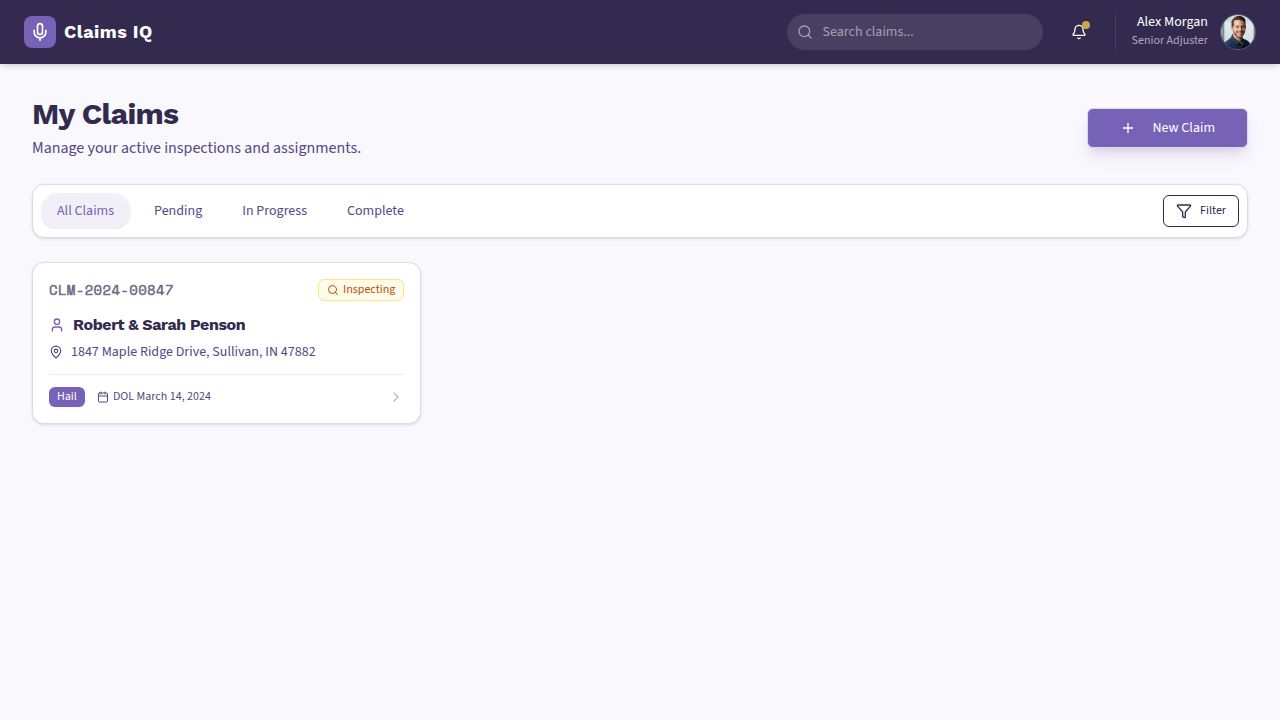
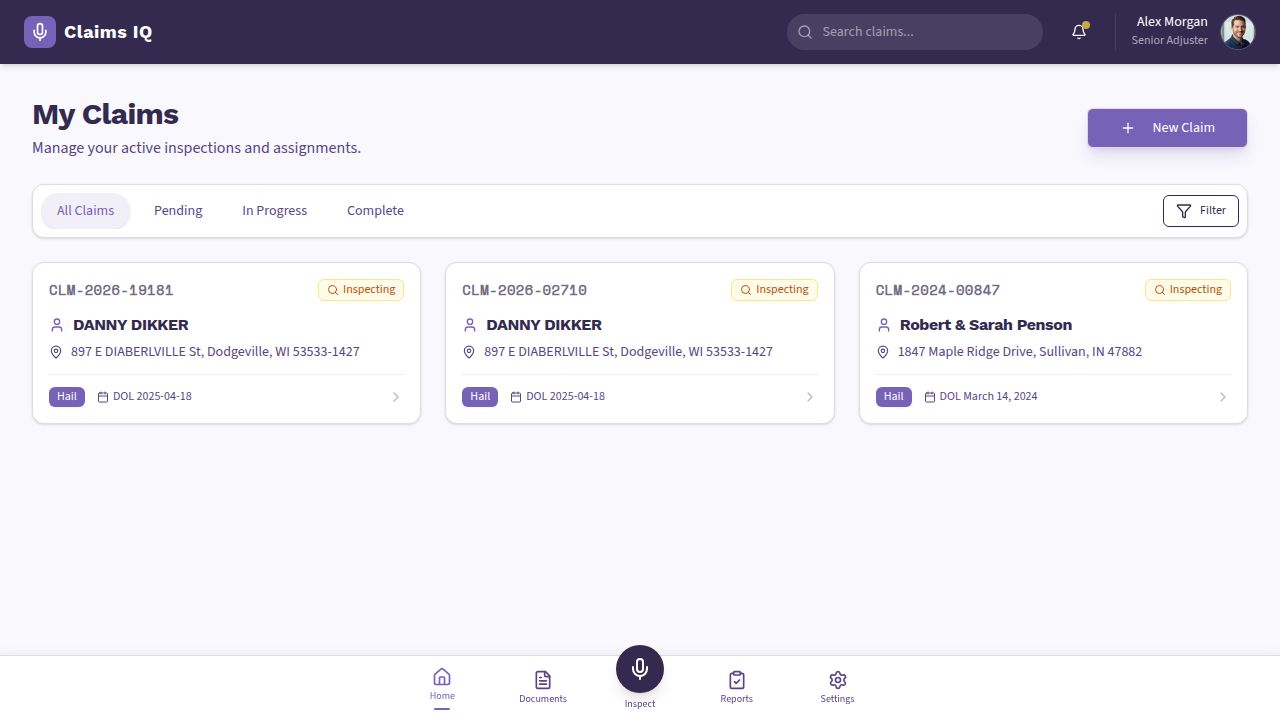
Make navigation buttons context-aware and functional across the application
Update `BottomNav.tsx` to dynamically generate navigation paths based on the active claim ID and status. Implement wildcard matching for route activation and add logic to hide the navigation during specific inspection phases. Also includes backend data fixes for claim details.

Replit-Commit-Author: Agent
Replit-Commit-Session-Id: 6dd01968-cad3-4640-b0b7-89ff9c62550d
Replit-Commit-Checkpoint-Type: full_checkpoint
Replit-Commit-Event-Id: fc676076-7662-4267-93ed-61b7ecebb32d
Replit-Commit-Screenshot-Url: https://storage.googleapis.com/screenshot-production-us-central1/700e6c2a-3d19-4718-8346-2da0e6e5ac25/6dd01968-cad3-4640-b0b7-89ff9c62550d/YNx6MMh

diff --git a/client/src/components/BottomNav.tsx b/client/src/components/BottomNav.tsx
@@ -1,74 +1,119 @@
 import { useLocation } from "wouter";
 import { Home, FileText, Mic, ClipboardCheck, Settings } from "lucide-react";
 import { cn } from "@/lib/utils";
+import { useQuery } from "@tanstack/react-query";
+
+interface Claim {
+  id: number;
+  claimNumber: string;
+  status: string;
+}
 
 interface NavItem {
   icon: React.ElementType;
   label: string;
-  path: string;
+  getPath: (activeClaim: Claim | null) => string;
   matchPaths: string[];
   prominent?: boolean;
 }
 
-const navItems: NavItem[] = [
-  {
-    icon: Home,
-    label: "Home",
-    path: "/",
-    matchPaths: ["/"],
-  },
-  {
-    icon: FileText,
-    label: "Documents",
-    path: "/",
-    matchPaths: ["/upload", "/review"],
-  },
-  {
-    icon: Mic,
-    label: "Inspect",
-    path: "/",
-    matchPaths: ["/briefing", "/inspection"],
-    prominent: true,
-  },
-  {
-    icon: ClipboardCheck,
-    label: "Reports",
-    path: "/",
-    matchPaths: ["/inspection/", "/export"],
-  },
-  {
-    icon: Settings,
-    label: "Settings",
-    path: "/",
-    matchPaths: ["/settings"],
-  },
-];
+function getNavItems(): NavItem[] {
+  return [
+    {
+      icon: Home,
+      label: "Home",
+      getPath: () => "/",
+      matchPaths: ["/"],
+    },
+    {
+      icon: FileText,
+      label: "Documents",
+      getPath: (c) => c ? `/upload/${c.id}` : "/",
+      matchPaths: ["/upload", "/review"],
+    },
+    {
+      icon: Mic,
+      label: "Inspect",
+      getPath: (c) => {
+        if (!c) return "/";
+        const s = c.status.toLowerCase().replace(/\s+/g, "_");
+        if (s === "inspecting") return `/inspection/${c.id}`;
+        if (s === "briefing_ready") return `/briefing/${c.id}`;
+        return `/briefing/${c.id}`;
+      },
+      matchPaths: ["/briefing", "/inspection"],
+      prominent: true,
+    },
+    {
+      icon: ClipboardCheck,
+      label: "Reports",
+      getPath: (c) => c ? `/inspection/${c.id}/review` : "/",
+      matchPaths: ["/inspection/*/review", "/inspection/*/export"],
+    },
+    {
+      icon: Settings,
+      label: "Settings",
+      getPath: () => "/",
+      matchPaths: ["/settings"],
+    },
+  ];
+}
 
 function isActive(location: string, matchPaths: string[]): boolean {
-  // Exact match for home
   if (matchPaths.includes("/") && location === "/") return true;
-  // Prefix match for other paths (skip "/" to avoid matching everything)
   return matchPaths
     .filter((p) => p !== "/")
-    .some((p) => location.startsWith(p));
+    .some((p) => {
+      if (p.includes("*")) {
+        const regex = new RegExp("^" + p.replace(/\*/g, "[^/]+") + "$");
+        return regex.test(location);
+      }
+      return location.startsWith(p);
+    });
+}
+
+function extractClaimIdFromPath(path: string): number | null {
+  const match = path.match(/\/(upload|review|briefing|inspection|export)\/(\d+)/);
+  return match ? parseInt(match[2]) : null;
 }
 
 export default function BottomNav() {
   const [location, setLocation] = useLocation();
 
+  const { data: claims = [] } = useQuery<Claim[]>({
+    queryKey: ["/api/claims"],
+  });
+
+  const currentClaimId = extractClaimIdFromPath(location);
+  const activeClaim = currentClaimId
+    ? claims.find((c) => c.id === currentClaimId) || null
+    : claims.length > 0 ? claims[0] : null;
+
+  const navItems = getNavItems();
+
+  const hideOnPaths = ["/inspection/"];
+  const shouldHide = hideOnPaths.some(
+    (p) => location.startsWith(p) && !location.includes("/review") && !location.includes("/export")
+  );
+  if (shouldHide) return null;
+
   return (
-    <nav className="fixed bottom-0 left-0 right-0 z-50 bg-white border-t border-border shadow-[0_-2px_10px_rgba(0,0,0,0.06)]">
-      {/* Safe area spacer for iOS notch devices */}
+    <nav
+      data-testid="bottom-nav"
+      className="fixed bottom-0 left-0 right-0 z-50 bg-white border-t border-border shadow-[0_-2px_10px_rgba(0,0,0,0.06)]"
+    >
       <div className="flex items-center justify-around h-16 px-2 max-w-lg mx-auto">
         {navItems.map((item) => {
           const active = isActive(location, item.matchPaths);
           const Icon = item.icon;
+          const targetPath = item.getPath(activeClaim);
 
           if (item.prominent) {
             return (
               <button
                 key={item.label}
-                onClick={() => setLocation(item.path)}
+                data-testid={`nav-${item.label.toLowerCase()}`}
+                onClick={() => setLocation(targetPath)}
                 className="flex flex-col items-center justify-center -mt-5"
               >
                 <div
@@ -96,7 +141,8 @@ export default function BottomNav() {
           return (
             <button
               key={item.label}
-              onClick={() => setLocation(item.path)}
+              data-testid={`nav-${item.label.toLowerCase()}`}
+              onClick={() => setLocation(targetPath)}
               className="flex flex-col items-center justify-center gap-0.5 min-w-[56px] py-1 transition-colors"
             >
               <Icon
@@ -120,7 +166,6 @@ export default function BottomNav() {
           );
         })}
       </div>
-      {/* iOS safe area bottom padding */}
       <div className="h-[env(safe-area-inset-bottom)]" />
     </nav>
   );
